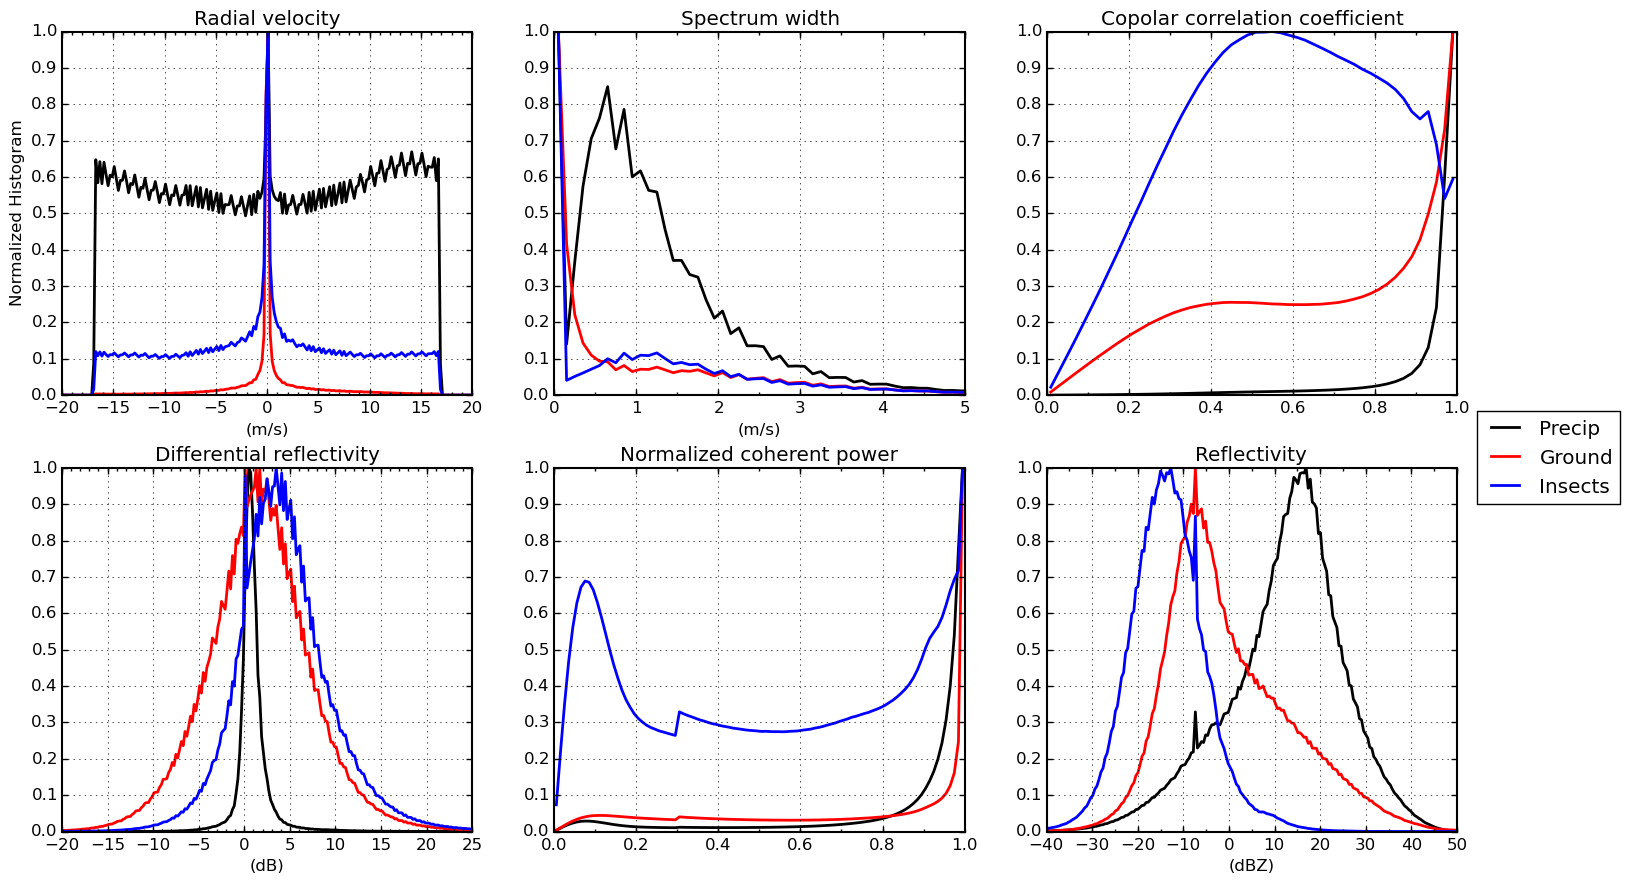
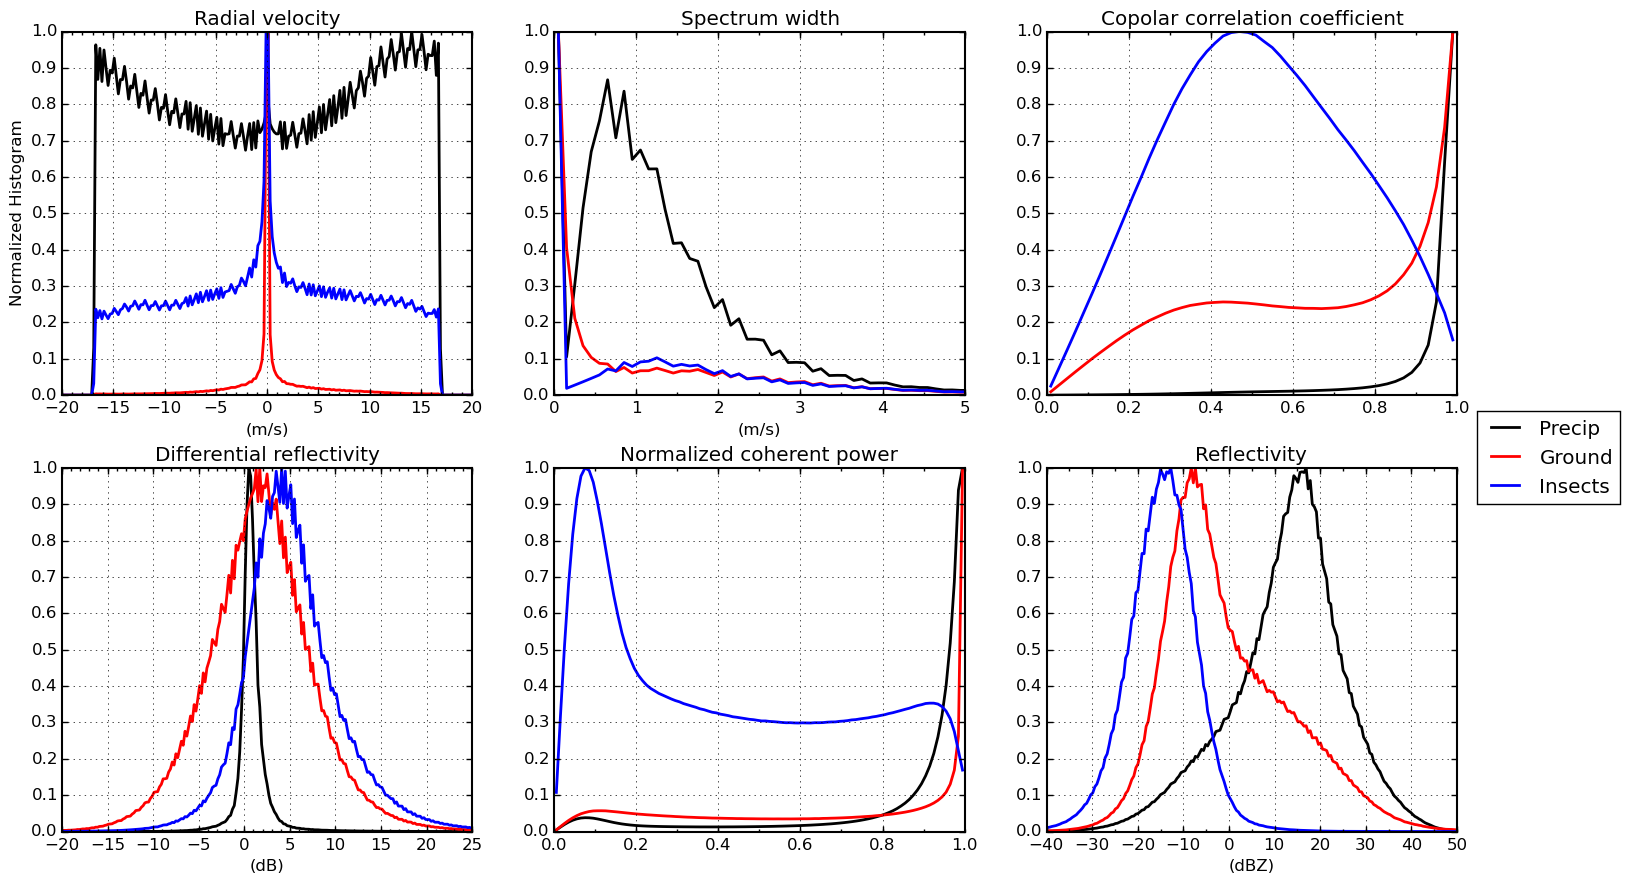
WIP: processing moments
Some final tweaks to the moments module, including the ability to
specifiy a minimum and maximum range (e.g., use a minimum range to avoid
ground clutter close to the radar). In the moment processing script, I
have now completely removed the need for a minimum coherent power
threshold.

diff --git a/clutter/graph/plot_moment.py b/clutter/graph/plot_moment.py
@@ -14,21 +14,21 @@ from pyart.config import get_field_name
 ### GLOBAL VARIABLES ###
 
 # Input directory to moments data
-INPDIR = '/aos/home/kirk/projects/clutter-classification/clutter/calibration'
+INPDIR = '/aos/home/kirk/projects/clutter-classification/clutter/calibration/'
 
 # Pickled moments data
 PRECIP = 'sgpxsaprppiI4.precip.moments.pkl'
 GROUND = 'sgpxsaprppiI4.ground.moments.pkl'
 INSECTS = 'sgpxsaprppiI4.insects.moments.pkl'
 
-
 # Parse field names
-refl_field = get_field_name('reflectivity')
-vdop_field = get_field_name('velocity')
-sw_field = get_field_name('spectrum_width')
-rhv_field = get_field_name('cross_correlation_ratio')
-zdr_field = get_field_name('differential_reflectivity')
-ncp_field = get_field_name('normalized_coherent_power')
+REFL_FIELD = get_field_name('reflectivity')
+VDOP_FIELD = get_field_name('velocity')
+SW_FIELD = get_field_name('spectrum_width')
+RHOHV_FIELD = get_field_name('cross_correlation_ratio')
+ZDR_FIELD = get_field_name('differential_reflectivity')
+NCP_FIELD = get_field_name('normalized_coherent_power')
+PHIDP_FIELD = get_field_name('differential_phase')
 
 ### Set figure parameters ###
 rcParams['axes.linewidth'] = 1.5
@@ -64,24 +64,24 @@ def all_classes(image, outdir=None, dpi=100, verbose=False):
         print 'Insects data: %s' % data_i.keys()
 
     # Parse moments data
-    refl_p = data_p[refl_field]
-    refl_g = data_g[refl_field]
-    refl_i = data_i[refl_field]
-    vdop_p = data_p[vdop_field]
-    vdop_g = data_g[vdop_field]
-    vdop_i = data_i[vdop_field]
-    sw_p = data_p[sw_field]
-    sw_g = data_g[sw_field]
-    sw_i = data_i[sw_field]
-    rhohv_p = data_p[rhv_field]
-    rhohv_g = data_g[rhv_field]
-    rhohv_i = data_i[rhv_field]
-    zdr_p = data_p[zdr_field]
-    zdr_g = data_g[zdr_field]
-    zdr_i = data_i[zdr_field]
-    ncp_p = data_p[ncp_field]
-    ncp_g = data_g[ncp_field]
-    ncp_i = data_i[ncp_field]
+    refl_p = data_p[REFL_FIELD]
+    refl_g = data_g[REFL_FIELD]
+    refl_i = data_i[REFL_FIELD]
+    vdop_p = data_p[VDOP_FIELD]
+    vdop_g = data_g[VDOP_FIELD]
+    vdop_i = data_i[VDOP_FIELD]
+    sw_p = data_p[SW_FIELD]
+    sw_g = data_g[SW_FIELD]
+    sw_i = data_i[SW_FIELD]
+    rhohv_p = data_p[RHOHV_FIELD]
+    rhohv_g = data_g[RHOHV_FIELD]
+    rhohv_i = data_i[RHOHV_FIELD]
+    zdr_p = data_p[ZDR_FIELD]
+    zdr_g = data_g[ZDR_FIELD]
+    zdr_i = data_i[ZDR_FIELD]
+    ncp_p = data_p[NCP_FIELD]
+    ncp_g = data_g[NCP_FIELD]
+    ncp_i = data_i[NCP_FIELD]
 
     fig = plt.figure(figsize=(18, 10))
 

diff --git a/clutter/moment/process_moment.py b/clutter/moment/process_moment.py
@@ -22,6 +22,8 @@ VCP_SWEEPS = 22
 VCP_RAYS = None
 MIN_SWEEP = 2
 MAX_SWEEP = None
+MIN_RANGE = 3.0
+MAX_RANGE = None
 REMOVE_SALT = True
 SALT_WINDOW = (5, 5)
 SALT_SAMPLE = 10
@@ -199,14 +201,15 @@ def _loop_over_dict(json_file, pickle_file, inpdir=None, outdir=None,
             salt_sample=SALT_SAMPLE, fill_value=None, verbose=True)
         gatefilter = noise.significant_detection(
             radar, gatefilter=gatefilter, remove_salt=REMOVE_SALT,
-            salt_window=SALT_WINDOW, salt_sample=SALT_SAMPLE, min_ncp=0.3,
+            salt_window=SALT_WINDOW, salt_sample=SALT_SAMPLE, min_ncp=MIN_NCP,
             detect_field=None, verbose=True)
 
         # Compute histogram counts for each field
         moment_fields.histograms_from_radar(
             radar, HIST_DICT, gatefilter=gatefilter, min_ncp=MIN_NCP,
-            min_sweep=MIN_SWEEP, max_sweep=MAX_SWEEP, fill_value=None,
-            ncp_field=NCP_FIELD, verbose=verbose)
+            min_sweep=MIN_SWEEP, max_sweep=MAX_SWEEP, min_range=MIN_RANGE,
+            max_range=MAX_RANGE, fill_value=None, ncp_field=NCP_FIELD,
+            verbose=verbose)
 
     # Normalize histograms for each field and compute probability densities
     for field in HIST_DICT:
@@ -226,6 +229,8 @@ def _loop_over_dict(json_file, pickle_file, inpdir=None, outdir=None,
         HIST_DICT[field]['radar files'] = files
         HIST_DICT[field]['min sweep'] = MIN_SWEEP
         HIST_DICT[field]['max sweep'] = MAX_SWEEP
+        HIST_DICT[field]['min range'] = MIN_RANGE
+        HIST_DICT[field]['max range'] = MAX_RANGE
         HIST_DICT[field]['sweeps in VCP'] = VCP_SWEEPS
         HIST_DICT[field]['rays in VCP'] = VCP_RAYS
         HIST_DICT[field]['minimum normalized coherent power'] = MIN_NCP
@@ -268,6 +273,8 @@ if __name__ == '__main__':
         print 'VCP_RAYS = {}'.format(VCP_RAYS)
         print 'MIN_SWEEP = {}'.format(MIN_SWEEP)
         print 'MAX_SWEEP = {}'.format(MAX_SWEEP)
+        print 'MIN_RANGE = {} km'.format(MIN_RANGE)
+        print 'MAX_RANGE = {} km'.format(MAX_RANGE)
         print 'REMOVE_SALT = {}'.format(REMOVE_SALT)
         print 'SALT_WINDOW = {}'.format(SALT_WINDOW)
         print 'SALT_SAMPLE = {}'.format(SALT_SAMPLE)
